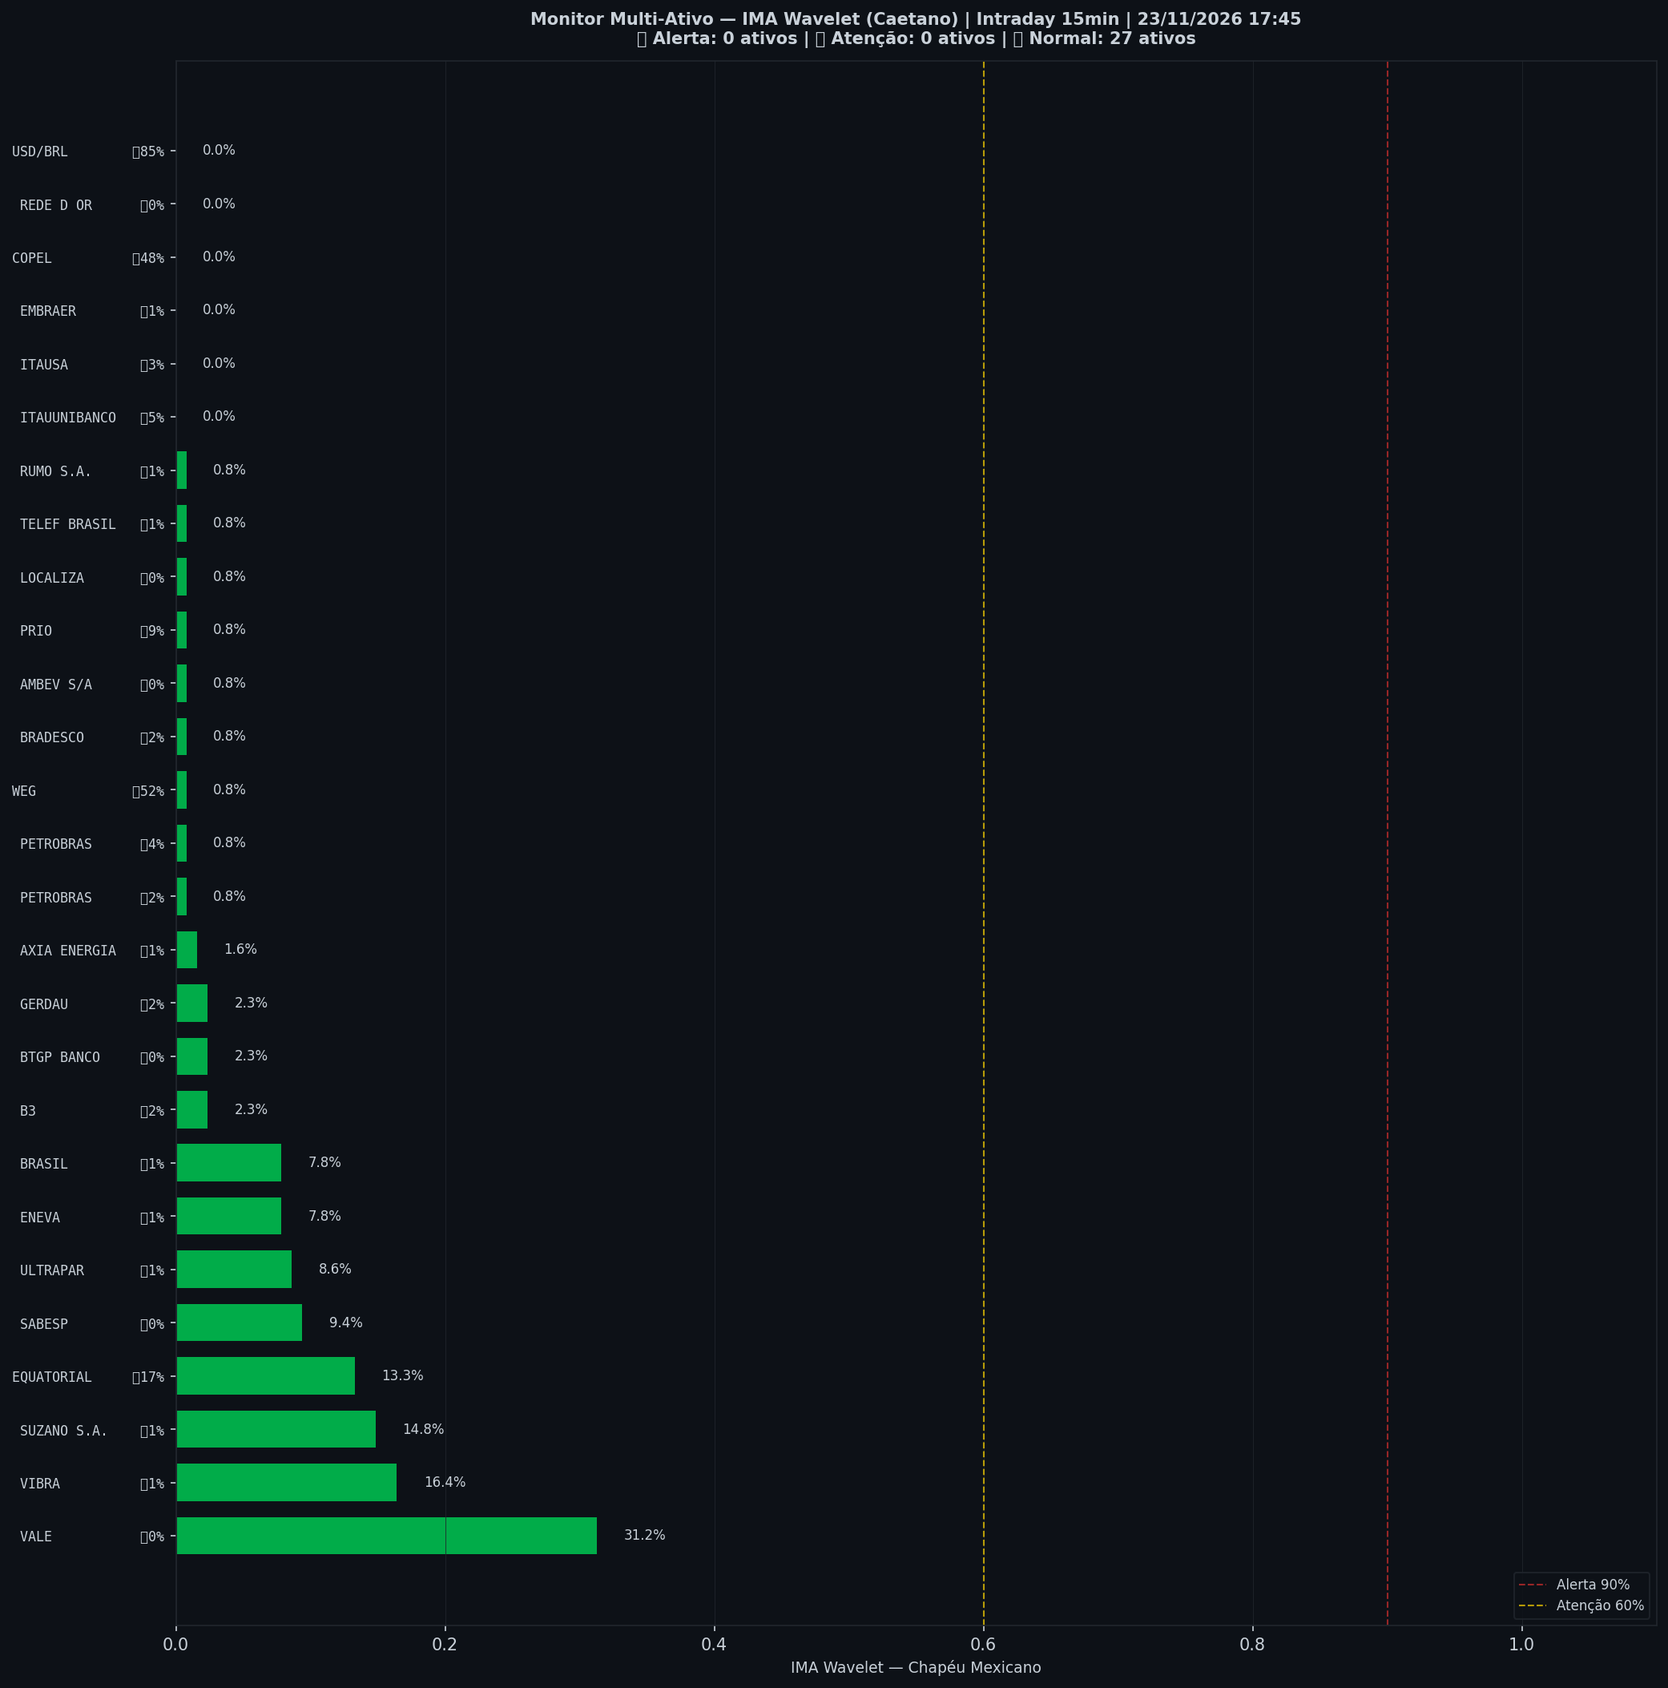
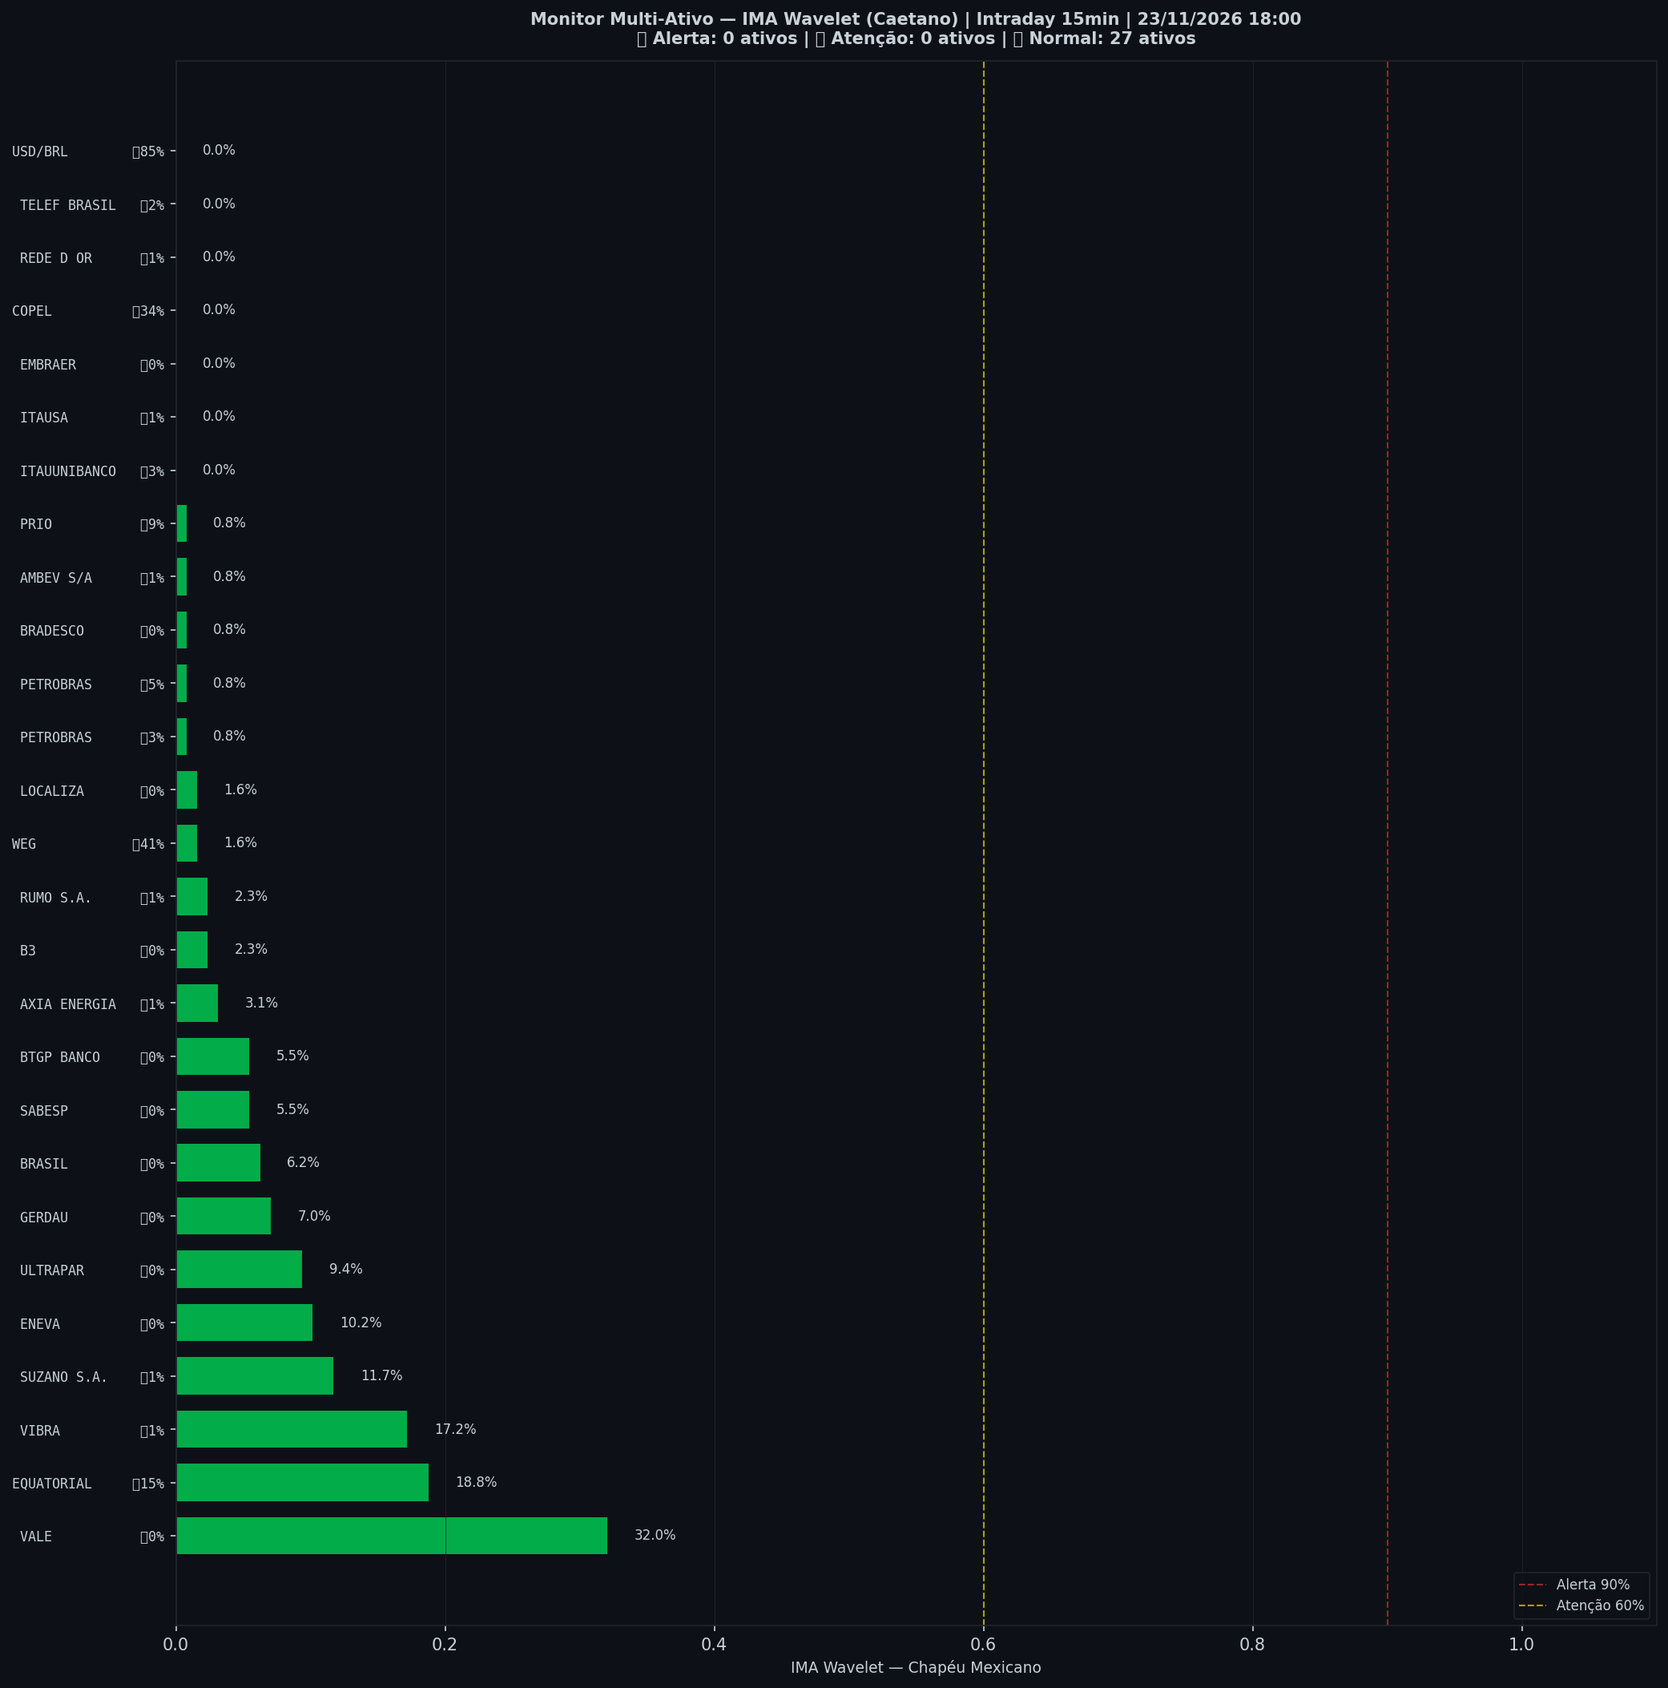
🤖 Auto: Sinal 23/11/2026 18:00

diff --git a/content/intraday/2026-11-23.md b/content/intraday/2026-11-23.md
@@ -1,13 +1,13 @@
 ---
-title: "🟢 Intraday 23/11/2026 17:30 BRT — VERDE"
+title: "🟢 Intraday 23/11/2026 17:45 BRT — VERDE"
 date: 2026-11-23
 tags: [intraday]
 ---
 
-> [!success] Onde o mercado está agora (23/11 17:30, candles de 15 min): **🟢 Calmo**
+> [!success] Onde o mercado está agora (23/11 17:45, candles de 15 min): **🟢 Calmo**
 > `Pânico ◀──────────●──────────▶ Euforia`
 >
-> **O Ibovespa cai 1,56% agora, aos 164.925 pontos.** O preço está dentro da sua faixa normal, sem excesso para cima nem para baixo.
+> **O Ibovespa cai 1,61% agora, aos 164.844 pontos.** O preço está dentro da sua faixa normal, sem excesso para cima nem para baixo.
 > No gráfico diário: 🌱 Fundo se desfazendo.
 >
 > *Leitura educacional baseada em 26 anos de dados. Não é recomendação de investimento.*
@@ -20,7 +20,7 @@ tags: [intraday]
 > | 📍 **Sinais** | hoje: nenhum sinal | [abrir](sinais-topo-fundo/) |
 > | 🧪 **Placar ao vivo** | 1 operação(ões), 0 com lucro, soma -0,8% | [abrir](operacoes/) |
 
-> [!success] IMA Intraday · 15 min (23/11 17:30): 🟢 **VERDE** — Risco 3% · ▲ +1 p.p. vs leitura anterior
+> [!success] IMA Intraday · 15 min (23/11 17:45): 🟢 **VERDE** — Risco 4% · ▲ +1 p.p. vs leitura anterior
 > `█░░░░░░░░░░░░░░░░░░░`
 > Preço na faixa normal em torno da tendência.
 
@@ -32,13 +32,13 @@ tags: [intraday]
 >
 > *Leitura educacional baseada em 26 anos de dados, não recomendação. [Como usar](../metodologia/crise#3-como-usar-na-prática).*
 
-| Indicador — IMA Intraday · 15 min (23/11 17:30) | Valor |
+| Indicador — IMA Intraday · 15 min (23/11 17:45) | Valor |
 |---|---|
-| 🔴 ζ Topo — preço esticado acima da tendência | **3%** |
-| 🔵 ζ Fundo — preço esticado abaixo da tendência | 1% |
+| 🔴 ζ Topo — preço esticado acima da tendência | **4%** |
+| 🔵 ζ Fundo — preço esticado abaixo da tendência | 0% |
 | 🫧 LPPL bolha — alta super-exponencial (risco de crash) | 0% |
 | 🫧 LPPL antibolha — queda super-exponencial (risco de repique) | 0% |
-| 📊 Ibovespa | 164.925 pts |
+| 📊 Ibovespa | 164.844 pts |
 
 ![Gráfico do sinal](../graficos/sinal_intraday.png)
 
@@ -46,6 +46,7 @@ tags: [intraday]
 
 | Data | Zona | Evento | Risco | ζ Topo | ζ Fundo | LPPL |
 |---|---|---|---|---|---|---|
+| 2026-11-23 17:45 | 🟢 VERDE |  | **4%** | 4% | 0% | 0% |
 | 2026-11-23 17:30 | 🟢 VERDE |  | **3%** | 3% | 1% | 0% |
 | 2026-11-23 17:15 | 🟢 VERDE |  | **2%** | 2% | 2% | 0% |
 | 2026-11-23 17:00 | 🟢 VERDE |  | **2%** | 2% | 2% | 0% |
@@ -75,7 +76,6 @@ tags: [intraday]
 | 2026-11-23 11:00 | 🟢 VERDE |  | **0%** | 0% | 38% | 0% |
 | 2026-11-23 10:45 | 🟢 VERDE |  | **0%** | 0% | 38% | 0% |
 | 2026-11-23 10:30 | 🟢 VERDE |  | **2%** | 2% | 16% | 0% |
-| 2026-11-23 10:15 | 🟢 VERDE |  | **2%** | 2% | 9% | 0% |
 
 <small>Destaques: 🟡 ≥ 60% · 🔴 ≥ 90% (Risco e ζ Topo) · 🔵 ≥ 60% · 🔪 ≥ 90% (ζ Fundo) · 🫧 ≥ 30% · 🫧🔴 ≥ 50% (LPPL)</small>
 
@@ -89,38 +89,38 @@ tags: [intraday]
 | Zona | Ativo | Setor | ζ Topo | ζ Fundo |
 |---|---|---|---|---|
 | 🟢 | **USD/BRL** | Câmbio | 0.0% | 🔵 **85.2%** |
-| 🟢 | **WEG** | Industrial | 0.8% | 52.3% |
-| 🟢 | **COPEL** | Energia | 0.0% | 48.4% |
-| 🟢 | **VALE** | Mineração | 31.2% | 0.0% |
-| 🟢 | **EQUATORIAL** | Energia | 13.3% | 17.2% |
-| 🟢 | **VIBRA** | Energia | 16.4% | 0.8% |
-| 🟢 | **SUZANO S.A.** | Papel/Celulose | 14.8% | 0.8% |
-| 🟢 | **SABESP** | Saneamento | 9.4% | 0.0% |
+| 🟢 | **WEG** | Industrial | 1.6% | 41.4% |
+| 🟢 | **COPEL** | Energia | 0.0% | 34.4% |
+| 🟢 | **VALE** | Mineração | 32.0% | 0.0% |
+| 🟢 | **EQUATORIAL** | Energia | 18.8% | 14.8% |
+| 🟢 | **VIBRA** | Energia | 17.2% | 0.8% |
+| 🟢 | **SUZANO S.A.** | Papel/Celulose | 11.7% | 0.8% |
+| 🟢 | **ENEVA** | Energia | 10.2% | 0.0% |
 | 🟢 | **PRIO** | Petróleo | 0.8% | 9.4% |
-| 🟢 | **ULTRAPAR** | Outros | 8.6% | 0.8% |
-| 🟢 | **ENEVA** | Energia | 7.8% | 0.8% |
-| 🟢 | **BRASIL** | Financeiro | 7.8% | 0.8% |
-| 🟢 | **ITAUUNIBANCO** | Financeiro | 0.0% | 5.5% |
-| 🟢 | **PETROBRAS** | Petróleo | 0.8% | 3.9% |
-| 🟢 | **ITAUSA** | Financeiro | 0.0% | 3.1% |
-| 🟢 | **PETROBRAS** | Petróleo | 0.8% | 2.3% |
-| 🟢 | **B3** | Financeiro | 2.3% | 1.6% |
-| 🟢 | **BTGP BANCO** | Financeiro | 2.3% | 0.0% |
-| 🟢 | **GERDAU** | Siderurgia | 2.3% | 1.6% |
-| 🟢 | **AXIA ENERGIA** | Energia | 1.6% | 0.8% |
-| 🟢 | **BRADESCO** | Financeiro | 0.8% | 1.6% |
-| 🟢 | **EMBRAER** | Outros | 0.0% | 0.8% |
-| 🟢 | **AMBEV S/A** | Consumo | 0.8% | 0.0% |
-| 🟢 | **LOCALIZA** | Aluguel | 0.8% | 0.0% |
-| 🟢 | **TELEF BRASIL** | Outros | 0.8% | 0.8% |
-| 🟢 | **RUMO S.A.** | Outros | 0.8% | 0.8% |
-| 🟢 | **REDE D OR** | Saúde | 0.0% | 0.0% |
+| 🟢 | **ULTRAPAR** | Outros | 9.4% | 0.0% |
+| 🟢 | **GERDAU** | Siderurgia | 7.0% | 0.0% |
+| 🟢 | **BRASIL** | Financeiro | 6.2% | 0.0% |
+| 🟢 | **SABESP** | Saneamento | 5.5% | 0.0% |
+| 🟢 | **BTGP BANCO** | Financeiro | 5.5% | 0.0% |
+| 🟢 | **PETROBRAS** | Petróleo | 0.8% | 4.7% |
+| 🟢 | **ITAUUNIBANCO** | Financeiro | 0.0% | 3.1% |
+| 🟢 | **PETROBRAS** | Petróleo | 0.8% | 3.1% |
+| 🟢 | **AXIA ENERGIA** | Energia | 3.1% | 0.8% |
+| 🟢 | **B3** | Financeiro | 2.3% | 0.0% |
+| 🟢 | **RUMO S.A.** | Outros | 2.3% | 0.8% |
+| 🟢 | **LOCALIZA** | Aluguel | 1.6% | 0.0% |
+| 🟢 | **TELEF BRASIL** | Outros | 0.0% | 1.6% |
+| 🟢 | **ITAUSA** | Financeiro | 0.0% | 0.8% |
+| 🟢 | **BRADESCO** | Financeiro | 0.8% | 0.0% |
+| 🟢 | **AMBEV S/A** | Consumo | 0.8% | 0.8% |
+| 🟢 | **REDE D OR** | Saúde | 0.0% | 0.8% |
+| 🟢 | **EMBRAER** | Outros | 0.0% | 0.0% |
 
 <small>Destaques: 🟡 ≥ 60% · 🔴 ≥ 90% (Risco e ζ Topo) · 🔵 ≥ 60% · 🔪 ≥ 90% (ζ Fundo) · 🫧 ≥ 30% · 🫧🔴 ≥ 50% (LPPL)</small>
 
 ![Monitor multi-ativo](../graficos/multi_intraday.png)
 
-*Página atualizada em 23/11/2026 17:45 BRT (leitura da barra de 2026-11-23 17:30 BRT).*
+*Página atualizada em 23/11/2026 18:00 BRT (leitura da barra de 2026-11-23 17:45 BRT).*
 
 > [!warning] O que este indicador não faz
 > Medido em 5 anos de Ibovespa, o ζ **não antecipa** topos nem fundos: a capacidade de separar o que sobe do que cai ficou em 0,49–0,52, e 0,50 é moeda jogada ao ar. Ele descreve o estado de agora; não é aviso do que vem. As zonas verde/amarelo/vermelho continuam na página como descrição desse estado — **não as use como sinal de entrada ou saída**.

diff --git a/content/index.md b/content/index.md
@@ -7,12 +7,12 @@ tags: [home]
 
 **As ondas do mercado, explicadas.** Leitura do Ibovespa com estatística de 26 anos, baseada no trabalho de pesquisadores e traders reconhecidos e adaptada por Jarbas Daniel da Costa.
 
-*Última atualização: 23/11/2026 17:45 BRT · Intraday 15min*
+*Última atualização: 23/11/2026 18:00 BRT · Intraday 15min*
 
-> [!success] Onde o mercado está agora (23/11 17:30, candles de 15 min): **🟢 Calmo**
+> [!success] Onde o mercado está agora (23/11 17:45, candles de 15 min): **🟢 Calmo**
 > `Pânico ◀──────────●──────────▶ Euforia`
 >
-> **O Ibovespa cai 1,56% agora, aos 164.925 pontos.** O preço está dentro da sua faixa normal, sem excesso para cima nem para baixo.
+> **O Ibovespa cai 1,61% agora, aos 164.844 pontos.** O preço está dentro da sua faixa normal, sem excesso para cima nem para baixo.
 > No gráfico diário: 🌱 Fundo se desfazendo.
 >
 > *Leitura educacional baseada em 26 anos de dados. Não é recomendação de investimento.*
@@ -21,7 +21,7 @@ tags: [home]
 
 | Módulo | Agora | |
 |---|---|---|
-| 🌊 **Sinal IMA** | 🟢 VERDE · 🟢 calmo · ζ Topo 3% | [relatório](intraday/2026-11-23) |
+| 🌊 **Sinal IMA** | 🟢 VERDE · 🟢 calmo · ζ Topo 4% | [relatório](intraday/2026-11-23) |
 | 📈 **Tendência MME9** | Diário — fora<br>Semanal — fora | [abrir](operacoes/tendencia) |
 | 🎯 **Entradas do método** | 🟢 comprado: Diário · Semáforo N3 após ζ Fundo | [abrir](operacoes/entradas) |
 | 📍 **Sinais** | hoje: nenhum sinal | [abrir](sinais-topo-fundo/) |
@@ -50,18 +50,18 @@ tags: [home]
 > *Leitura educacional baseada em 26 anos de dados, não recomendação. [Como usar](metodologia/crise#3-como-usar-na-prática).*
 
 > [!info]- 🌊 Detalhes do Sinal IMA (indicadores e últimos 7 pregões)
-> > [!success] IMA Intraday · 15 min (23/11 17:30): 🟢 **VERDE** — Risco 3% · ▲ +1 p.p. vs leitura anterior
+> > [!success] IMA Intraday · 15 min (23/11 17:45): 🟢 **VERDE** — Risco 4% · ▲ +1 p.p. vs leitura anterior
 > > `█░░░░░░░░░░░░░░░░░░░`
 > > Preço na faixa normal em torno da tendência.
 >
 >
-> | Indicador — IMA Intraday · 15 min (23/11 17:30) | Valor |
+> | Indicador — IMA Intraday · 15 min (23/11 17:45) | Valor |
 > |---|---|
-> | 🔴 ζ Topo — preço esticado acima da tendência | **3%** |
-> | 🔵 ζ Fundo — preço esticado abaixo da tendência | 1% |
+> | 🔴 ζ Topo — preço esticado acima da tendência | **4%** |
+> | 🔵 ζ Fundo — preço esticado abaixo da tendência | 0% |
 > | 🫧 LPPL bolha — alta super-exponencial (risco de crash) | 0% |
 > | 🫧 LPPL antibolha — queda super-exponencial (risco de repique) | 0% |
-> | 📊 Ibovespa | 164.925 pts |
+> | 📊 Ibovespa | 164.844 pts |
 >
 > **Multi-ativo:** 0% em tensão (0🔴 0🟡 de 27 ativos)
 >
@@ -69,7 +69,7 @@ tags: [home]
 >
 > | Data | Zona | Risco | ζ Topo | ζ Fundo | LPPL |
 > |---|---|---|---|---|---|
-> | [23/11/2026](intraday/2026-11-23) | 🟢 VERDE | **3%** | 3% | 1% | 0% |
+> | [23/11/2026](intraday/2026-11-23) | 🟢 VERDE | **4%** | 4% | 0% | 0% |
 >
 > <small>Destaques: 🟡 ≥ 60% · 🔴 ≥ 90% (Risco e ζ Topo) · 🔵 ≥ 60% · 🔪 ≥ 90% (ζ Fundo) · 🫧 ≥ 30% · 🫧🔴 ≥ 50% (LPPL)</small>
 >

diff --git a/content/integridade/index.md b/content/integridade/index.md
@@ -6,7 +6,7 @@ description: "O que foi conferido, contra qual fonte e quando — medido na hora
 tags: [integridade]
 ---
 
-*Pregão conferido: **19/11/2026**, com 54 tabelas no acervo · página gerada em 23/11/2026 17:45*
+*Pregão conferido: **19/11/2026**, com 54 tabelas no acervo · página gerada em 23/11/2026 18:00*
 
 O pregão conferido é o último **fechado e arquivado inteiro**, não o de hoje: enquanto o dia corre, só algumas tabelas estão gravadas, e conferir um dia pela metade produziria alarme falso.
 
@@ -23,7 +23,7 @@ Esta página não declara que o site está correto. Ela **mede** e escreve o res
 | Tabelas com conteúdo fora da curva | nenhuma |
 | Páginas publicadas | 365 |
 | Conferências cruzadas das páginas | 71 certas, nenhuma divergência |
-| Página escrita mais recentemente | 23/11 17:45 |
+| Página escrita mais recentemente | 23/11 18:00 |
 | Páginas sem data no cabeçalho | 9 — cegas para a conferência de dado |
 
 ## 1 · Acervo do boletim diário
@@ -124,18 +124,18 @@ Pregão mais recente declarado por alguma página: **23/11/2026**.
 | `intraday/index.md` | 16/11 14:43 | 7.1 |
 | `por-onde-comecar.md` | 16/11 15:20 | 7.1 |
 | `autopsias/index.md` | 19/11 14:39 | 4.1 |
-| `sinais-topo-fundo/index.md` | 20/11 19:00 | 2.9 |
-| `sinais-topo-fundo/todos-os-sinais.md` | 20/11 19:00 | 2.9 |
-| `sinais-topo-fundo/tutorial.md` | 20/11 19:00 | 2.9 |
-| `amplitude/index.md` | 20/11 19:03 | 2.9 |
-| `larry-williams/index.md` | 20/11 19:03 | 2.9 |
-| `posicionamento/derivativos.md` | 20/11 19:08 | 2.9 |
-| `posicionamento/aluguel.md` | 20/11 19:09 | 2.9 |
-| `tecnico/index.md` | 20/11 19:09 | 2.9 |
-| `adr/index.md` | 20/11 19:09 | 2.9 |
-| `agro/index.md` | 20/11 19:09 | 2.9 |
-| `juros/index.md` | 20/11 19:09 | 2.9 |
-| `posicionamento/index.md` | 20/11 19:09 | 2.9 |
+| `sinais-topo-fundo/index.md` | 20/11 19:00 | 3.0 |
+| `sinais-topo-fundo/todos-os-sinais.md` | 20/11 19:00 | 3.0 |
+| `sinais-topo-fundo/tutorial.md` | 20/11 19:00 | 3.0 |
+| `amplitude/index.md` | 20/11 19:03 | 3.0 |
+| `larry-williams/index.md` | 20/11 19:03 | 3.0 |
+| `posicionamento/derivativos.md` | 20/11 19:08 | 3.0 |
+| `posicionamento/aluguel.md` | 20/11 19:09 | 3.0 |
+| `tecnico/index.md` | 20/11 19:09 | 3.0 |
+| `adr/index.md` | 20/11 19:09 | 3.0 |
+| `agro/index.md` | 20/11 19:09 | 3.0 |
+| `juros/index.md` | 20/11 19:09 | 3.0 |
+| `posicionamento/index.md` | 20/11 19:09 | 3.0 |
 | `ofertas.md` | 21/11 07:15 | 2.4 |
 
 ### Página declarando data sem pregão

diff --git a/content/operacoes/entradas.md b/content/operacoes/entradas.md
@@ -84,7 +84,7 @@ description: "Compra depois de um sinal de fundo: Nadaraya no diário, semáforo
 > | Diário · Semáforo N3 após ζ Fundo | 07/07/26 a 172.021 | 10/08/26 a 172.021 | **+0,0%** | stop no preço de entrada |
 > | H4 · Semáforo N2 | 12/06/26 14h a 171.134 | 15/06/26 14h a 171.134 | **+0,0%** | stop no preço de entrada |
 >
-> <small>Atualizado 20/11 19:00 · checado no pregão às 17:45. Nota: ✅ passou no teste fora da amostra (walk-forward 2008–2026) · 🧪 em teste (H4, com aviso no Telegram) ou em observação (ζ, sem aviso) · 🧪 na tabela = operação do teste ao vivo.</small>
+> <small>Atualizado 20/11 19:00 · checado no pregão às 18:00. Nota: ✅ passou no teste fora da amostra (walk-forward 2008–2026) · 🧪 em teste (H4, com aviso no Telegram) ou em observação (ζ, sem aviso) · 🧪 na tabela = operação do teste ao vivo.</small>
 >
 > *Regras: depois de um sinal de fundo, o Diário entra quando o Nadaraya vira para cima; o Semanal e o H4 entram quando um fundo do semáforo fica fixo. Stop e saída de cada regra na [metodologia](metodologia/regras-de-operacao#entradas-do-método). Nenhuma regra de venda passou no teste. Os números do histórico têm viés de escolha (overfitting); o placar ao vivo é o que vale. Leitura educacional do método, não recomendação.*
 

diff --git a/content/operacoes/ranking.md b/content/operacoes/ranking.md
@@ -56,7 +56,7 @@ description: "As regras de compra do site ordenadas pelo resultado, com treino, 
 > 
 > Operação **com 🧪** começou depois de **23/10/2026**, com as regras congeladas. É o único resultado sem nenhum ajuste ao passado, e é por ele que cada regra está sendo julgada.
 
-*Atualizado 23/11/2026 17:45 · histórico simulado com as regras congeladas em 23/10/2026 + placar ao vivo.*
+*Atualizado 23/11/2026 18:00 · histórico simulado com as regras congeladas em 23/10/2026 + placar ao vivo.*
 
 As regras de compra do site, **da que mais rendeu para a que menos rendeu**. O resultado é por operação, no índice à vista, sem custos e sem juros compostos (a soma é só a soma das operações). **Treino** = entradas de 2001 a 2013 e **teste** = 2014 em diante: uma regra só é confiável se ganhou nos dois. O único resultado sem nenhum ajuste ao histórico é o **placar ao vivo**.
 

diff --git a/content/historico.md b/content/historico.md
@@ -5,7 +5,7 @@ tags: [historico]
 
 # 📜 Histórico de leituras (v5)
 
-**2.545 leituras** desde 2026-07-03. Na página ficam os últimos 3 dias leitura por leitura e o resumo de cada dia anterior; o registro inteiro está no arquivo para baixar.
+**2.546 leituras** desde 2026-07-03. Na página ficam os últimos 3 dias leitura por leitura e o resumo de cada dia anterior; o registro inteiro está no arquivo para baixar.
 
 [**Baixar o histórico completo**](historico-completo.csv) (111 KB · abre no Excel e no LibreOffice)
 
@@ -16,6 +16,7 @@ tags: [historico]
 
 | Data | Modo | Zona | Risco | IMA | LPPL |
 |---|---|---|---|---|---|
+| 2026-11-23 17:45 | intraday | 🟢 VERDE | 4% | 4% | 0% |
 | 2026-11-23 17:30 | intraday | 🟢 VERDE | 3% | 3% | 0% |
 | 2026-11-23 17:15 | intraday | 🟢 VERDE | 2% | 2% | 0% |
 | 2026-11-23 17:00 | intraday | 🟢 VERDE | 2% | 2% | 0% |

diff --git a/content/linha-do-tempo/index.md b/content/linha-do-tempo/index.md
@@ -5,7 +5,7 @@ description: "Todo sinal, ordem, stop e aviso do Pêndulo de Mercado, do mais re
 tags: [eventos]
 ---
 
-*Atualizada 23/11/2026 17:45 BRT · a cada 15 min no pregão e às 19h.*
+*Atualizada 23/11/2026 18:00 BRT · a cada 15 min no pregão e às 19h.*
 
 Tudo o que o sistema fez ou detectou, **do mais recente para o mais antigo**: sinais de topo e fundo, ordens de compra e de venda armadas, compras, vendas, stops, avisos de 🚨 preço perto do nível e mudanças do Sinal IMA. Os **últimos 7 dias** ficam abertos; o resto, por **ano → mês → dia**.
 

diff --git a/content/avisos/index.md b/content/avisos/index.md
@@ -2,7 +2,7 @@
 title: "⚠ Avisos: o que saber antes de usar os números"
 ---
 
-*Gerado em 23/11/2026 17:45*
+*Gerado em 23/11/2026 18:00*
 
 Este site publica muitos números, e cada um tem uma limitação que importa na hora de
 decidir. As limitações estão escritas nas próprias páginas, mas quem chega direto numa
